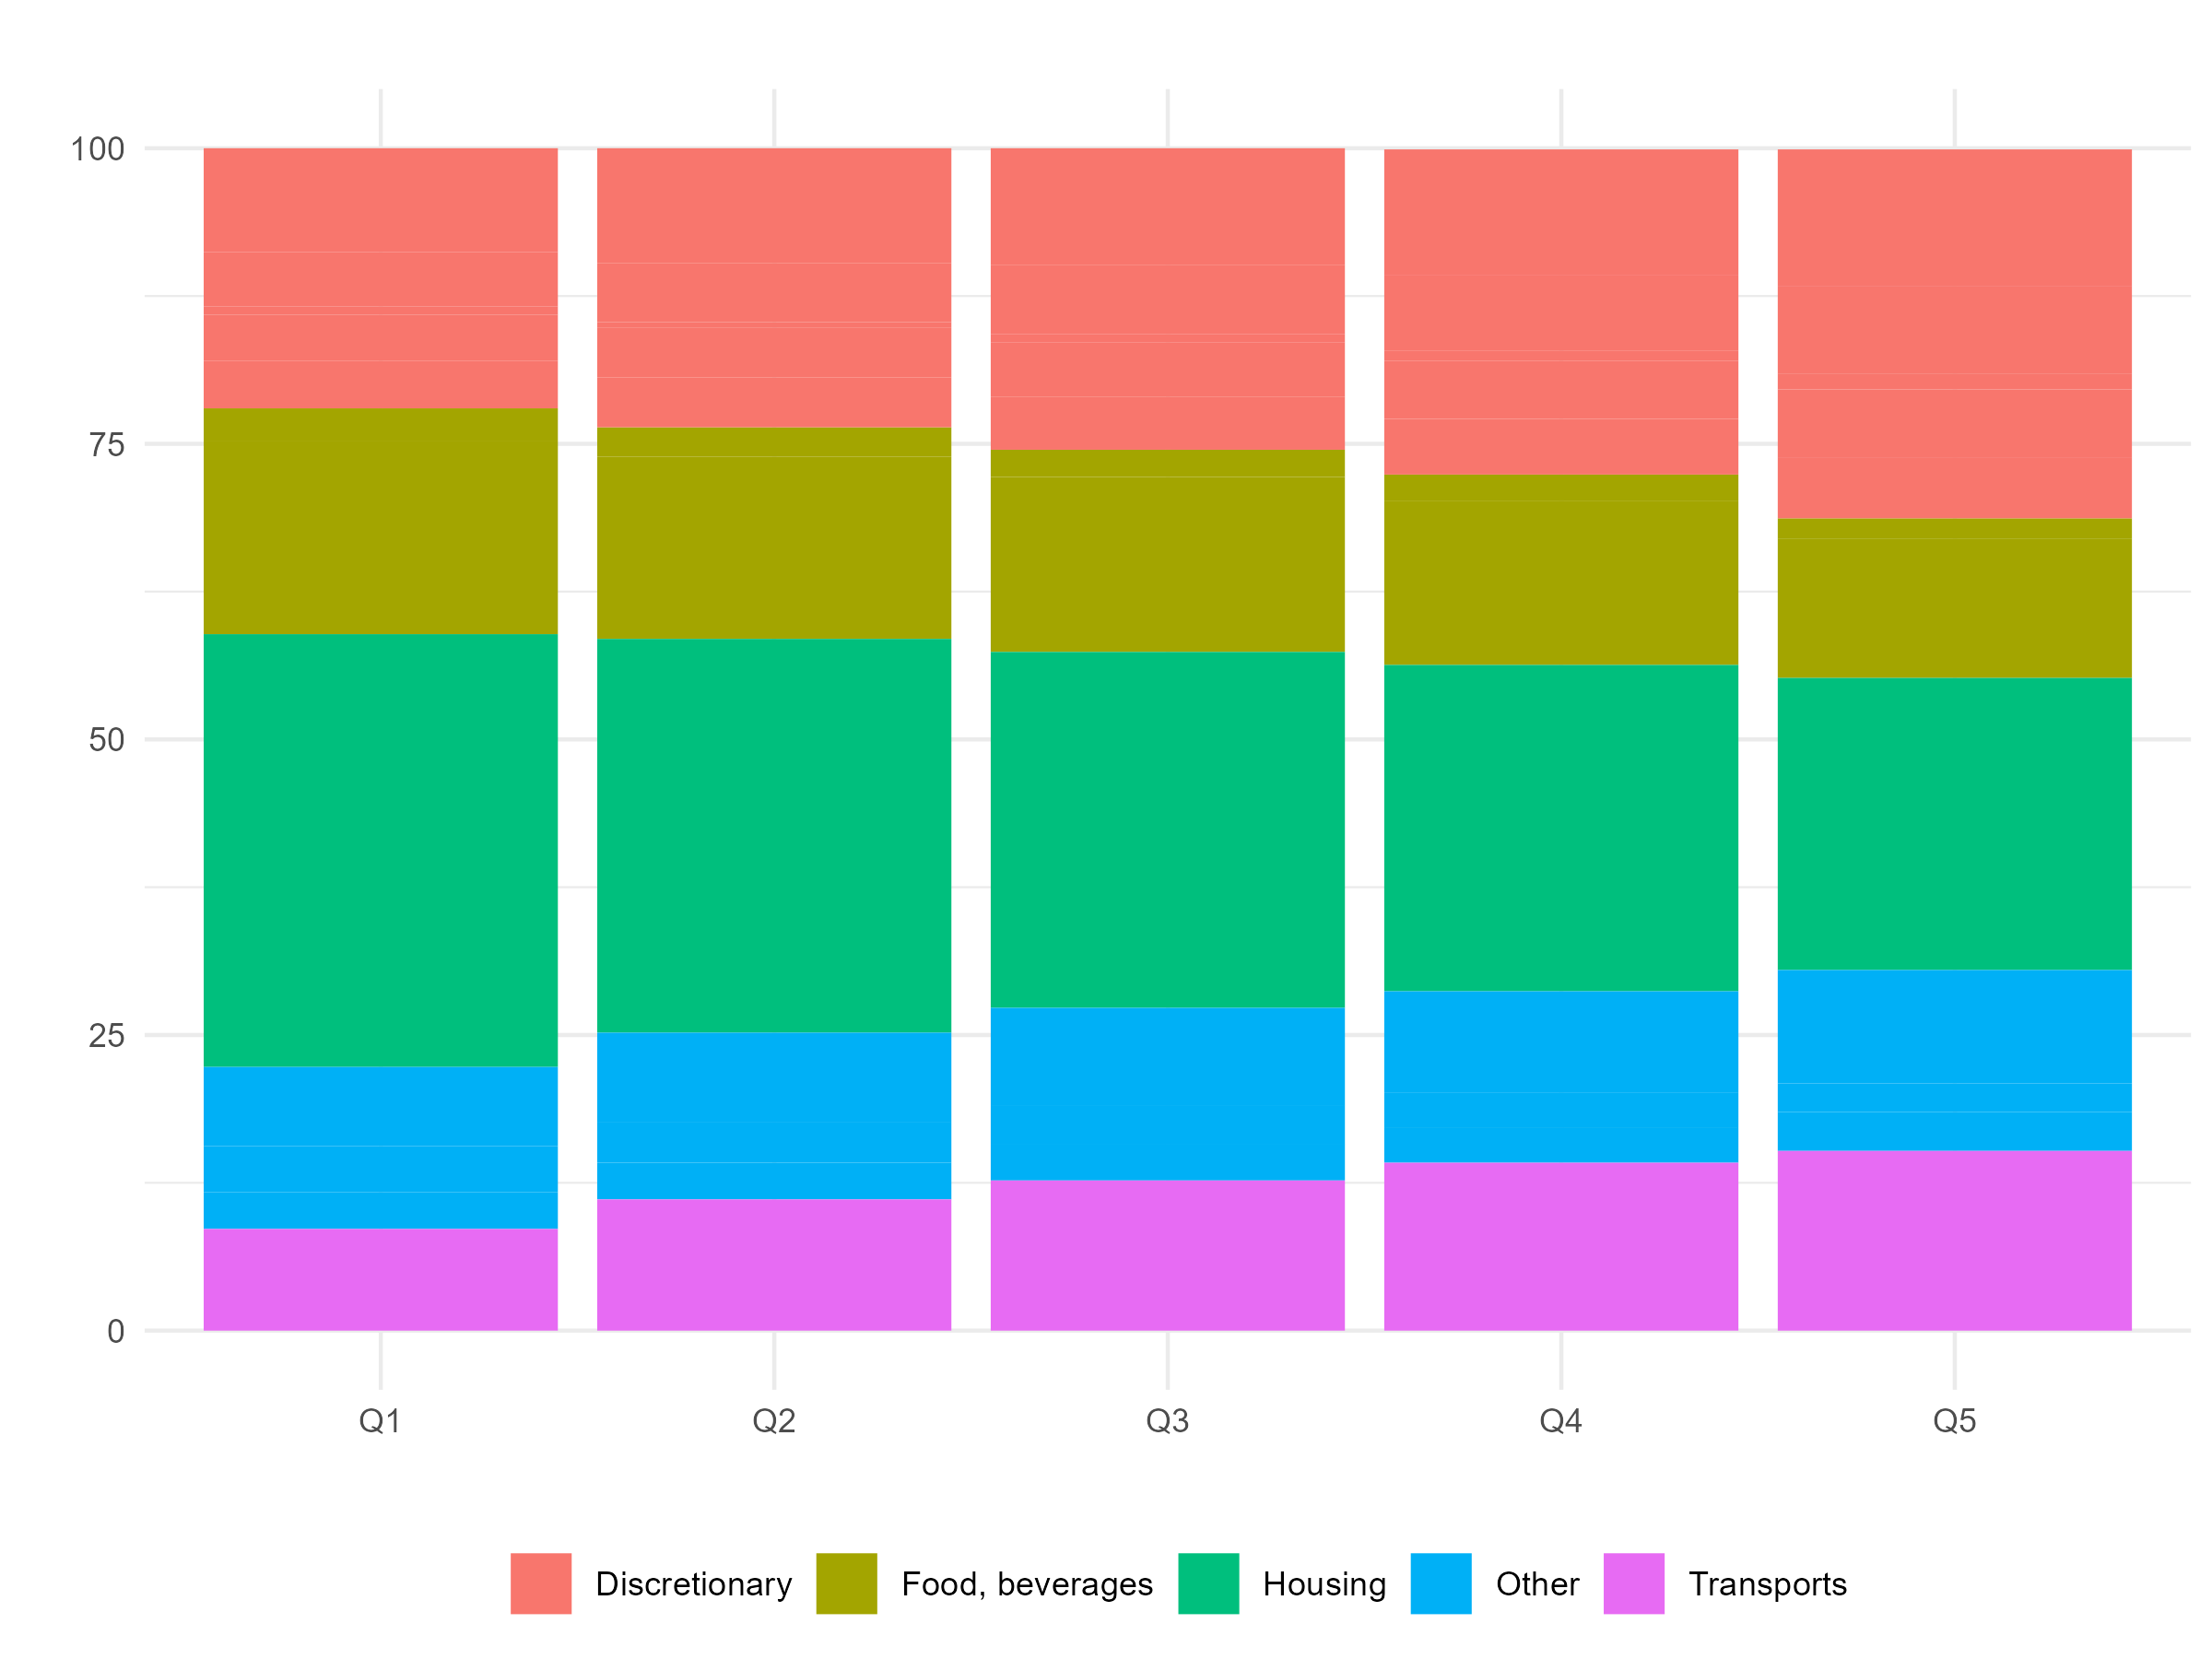
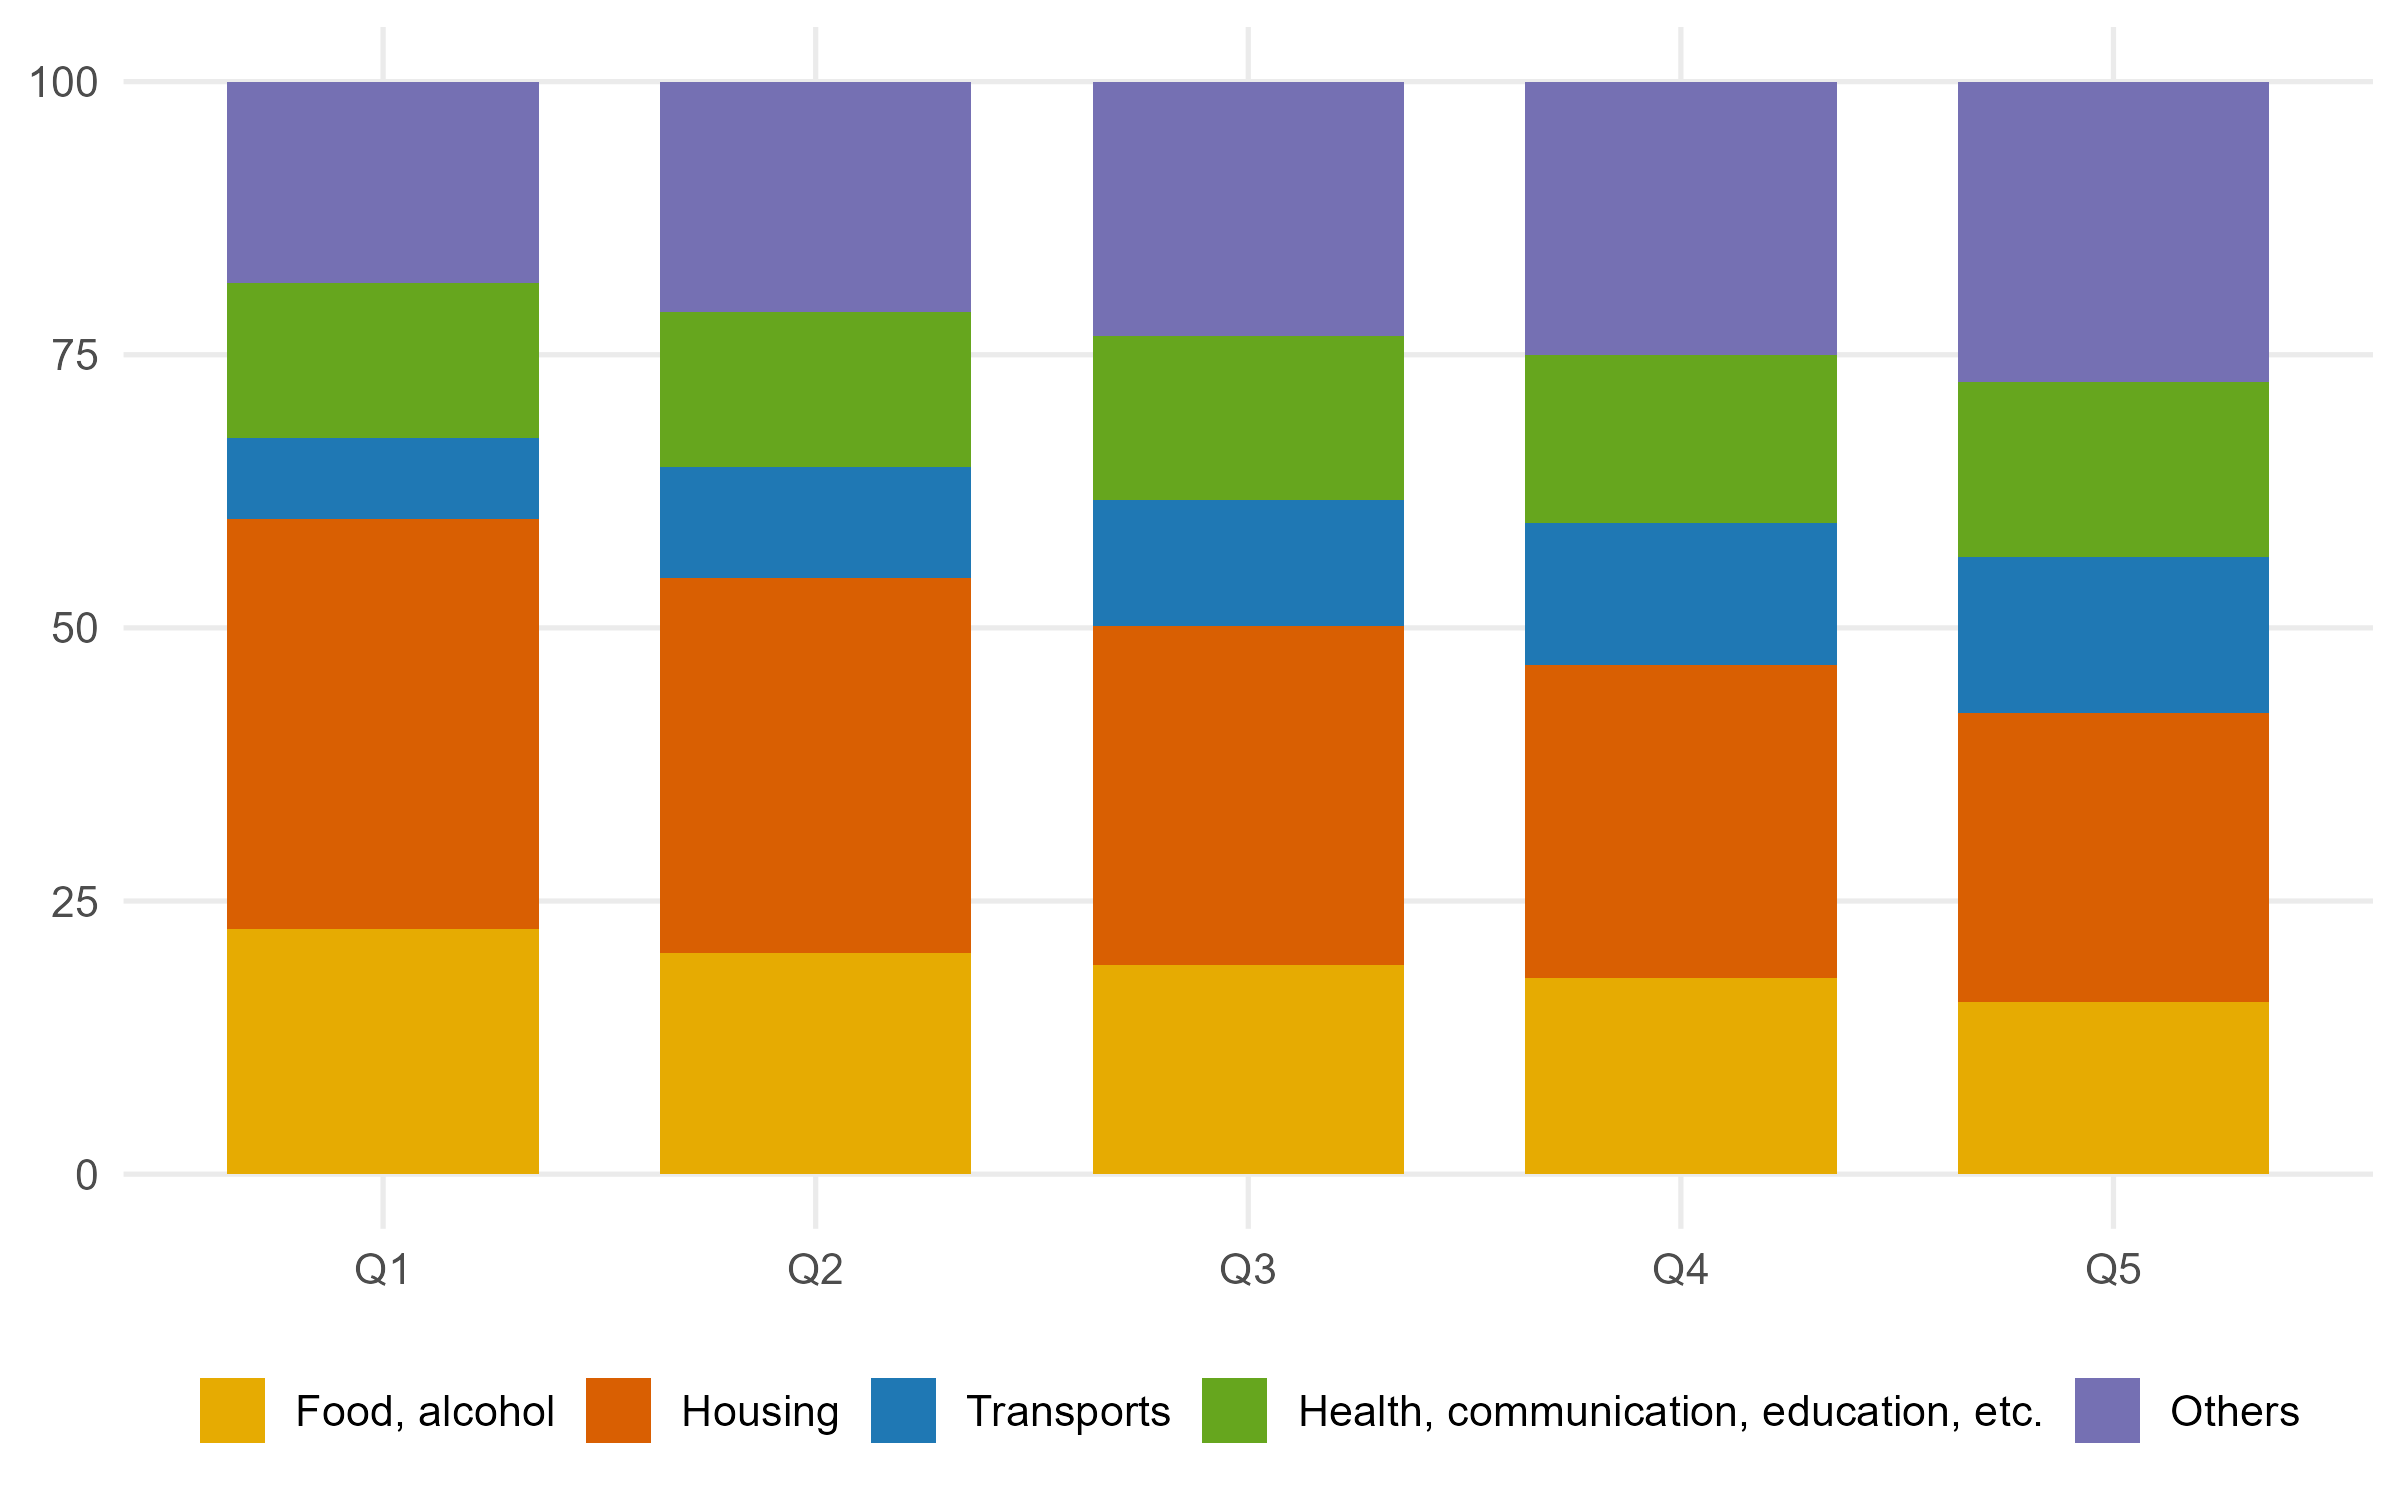
Update euro area HBS basket figure

diff --git a/main.tex b/main.tex
@@ -197,14 +197,16 @@ HBS which are generally collected every five years. The most recent wave of the 
 \begin{figure}[!ht]
 \centering
 \caption{Consumption baskets by income quintiles (euro area, in \% of total expenditures)}
-\includegraphics[width=0.86\textwidth,height=0.36\textheight,keepaspectratio]{fig/fig_EA_2015_income_consumption_baskets.png}
+\includegraphics[width=0.86\textwidth,height=0.36\textheight,keepaspectratio]{fig/fig_EA_2020_income_consumption_baskets.png}
 \label{fig:hbs}
 \captionsetup{font=footnotesize, format=hang, singlelinecheck=false, justification=justified}
 \caption*{Notes: Structure of consumption expenditure by income quintile.
-The euro-area aggregate is computed as the unweighted average of available
-country-level HBS expenditure shares. Italy is taken from the Eurostat HBS
-income-quintile table.\\
-Source: Eurostat HBS 2015, authors' calculation}
+The euro-area aggregate is computed from the 2020 HBS wave as the unweighted sum
+of available country-level income-quintile expenditures, renormalised to 100
+within each quintile. Countries without available HBS data for the wave are not
+included in the aggregate. Italy is taken from the Eurostat HBS income-quintile
+table.\\
+Source: Eurostat HBS 2020, authors' calculation}
 \end{figure}
 %%%%%%%%%%%%%%%%%%%%%%%%%%%%%%%%%%%%%%%%%%%%%%%%%%%%%%%%%%%%%%
 \newpage